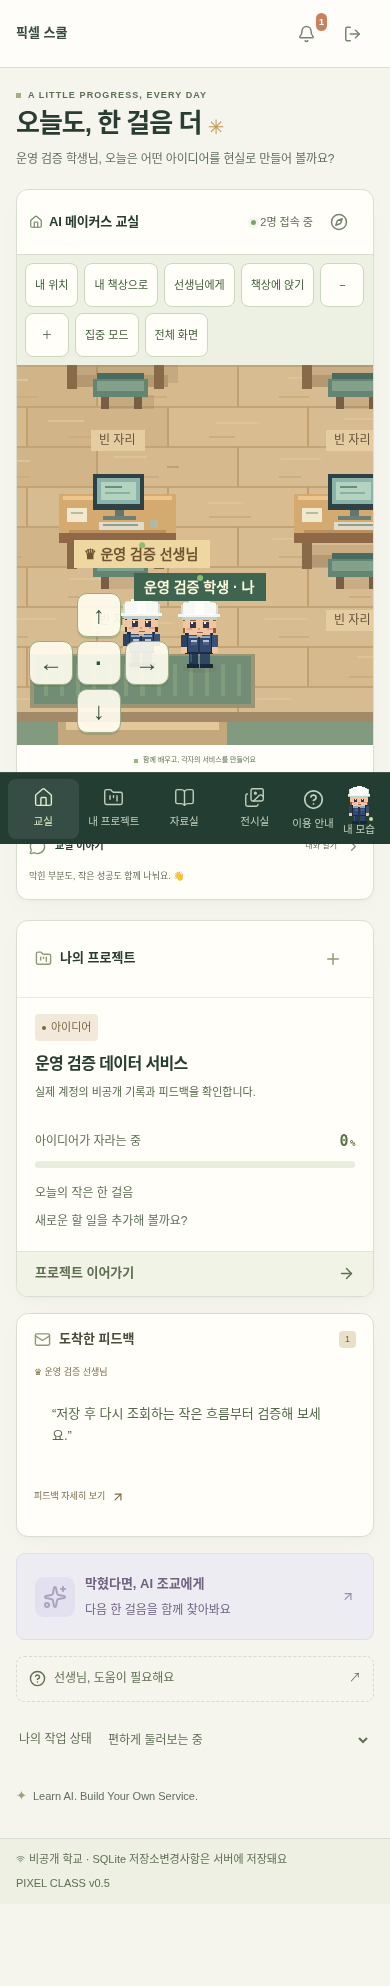
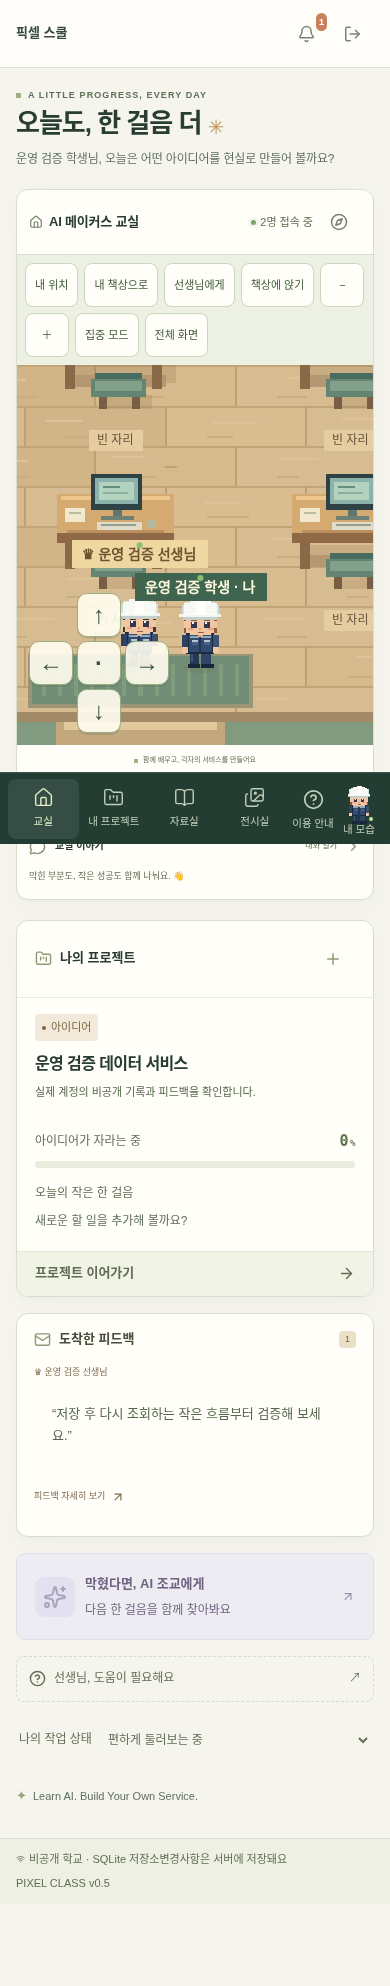
test: verify readable immutable code and document Railway hardening

diff --git a/V05_RAILWAY_REPORT.md b/V05_RAILWAY_REPORT.md
@@ -4,18 +4,18 @@
 
 ## Git·배포 상태
 
-| 항목                    | 확인 결과                                                                                                                                                              |
-| ----------------------- | ---------------------------------------------------------------------------------------------------------------------------------------------------------------------- |
-| 저장소/시작 main        | `dhdh09080/pixel-class`, `42191e83fc3a51073b54d3880468e552b4f0c093`                                                                                                    |
-| 기존 PR/CI              | #1→#2→[v0.4 #3](https://github.com/dhdh09080/pixel-class/pull/3) 병합 완료. main [CI #28](https://github.com/dhdh09080/pixel-class/actions/runs/42490469960) 86개 성공 |
-| 작업 브랜치/구현        | `feature/pixel-class-v05`, `577147f` (`feat: secure Railway runtime and persistent school deployment`). 후속 문서/증거는 브랜치 커밋 목록 참조                         |
-| v0.5 PR/CI              | [PR #4](https://github.com/dhdh09080/pixel-class/pull/4), 최신 head와 CI는 [Checks](https://github.com/dhdh09080/pixel-class/pull/4/checks) 참조                       |
-| Railway 프로젝트/서비스 | **미생성·미조회**. `pixel-class`는 제안 이름이며 실제 자원 이름/ID가 아님                                                                                              |
-| 실제 배포 URL/ID        | **없음 / 없음**                                                                                                                                                        |
-| 실제 Volume             | **미연결**. 제안 1GB `/app/data`, 실제 플랫폼 ID·지역·요금 미확인                                                                                                      |
-| 최초 MASTER             | 로컬 QA 생성/복원/재로그인 통과. **외부 학교 MASTER 미등록**                                                                                                           |
-| 실제 HTTPS/WSS          | Railway 공인 TLS/외부 WSS는 **미검증**. 로컬 CA 검증 HTTPS/WSS는 성공                                                                                                  |
-| DB/AI                   | SQLite WAL 유지, 스키마 변경 없음. Supabase 전환 없음. 실제 OpenAI 키/모델·호출·품질·비용 평가 없음                                                                    |
+| 항목                    | 확인 결과                                                                                                                                                                                                                                                             |
+| ----------------------- | --------------------------------------------------------------------------------------------------------------------------------------------------------------------------------------------------------------------------------------------------------------------- |
+| 저장소/시작 main        | `dhdh09080/pixel-class`, `42191e83fc3a51073b54d3880468e552b4f0c093`                                                                                                                                                                                                   |
+| 기존 PR/CI              | #1→#2→[v0.4 #3](https://github.com/dhdh09080/pixel-class/pull/3) 병합 완료. main [CI #28](https://github.com/dhdh09080/pixel-class/actions/runs/42490469960) 86개 성공                                                                                                |
+| 작업 브랜치/구현        | `feature/pixel-class-v05`, `577147f` (`feat: secure Railway runtime and persistent school deployment`). 후속 문서/증거는 브랜치 커밋 목록 참조                                                                                                                        |
+| v0.5 PR/CI              | [PR #4](https://github.com/dhdh09080/pixel-class/pull/4)는 `0c0c77b`로 main 병합, [CI #30](https://github.com/dhdh09080/pixel-class/actions/runs/42555296733) 92개 성공. 코드 권한 보완은 [PR #5](https://github.com/dhdh09080/pixel-class/pull/5)와 해당 Checks 참조 |
+| Railway 프로젝트/서비스 | **미생성·미조회**. `pixel-class`는 제안 이름이며 실제 자원 이름/ID가 아님                                                                                                                                                                                             |
+| 실제 배포 URL/ID        | **없음 / 없음**                                                                                                                                                                                                                                                       |
+| 실제 Volume             | **미연결**. 제안 1GB `/app/data`, 실제 플랫폼 ID·지역·요금 미확인                                                                                                                                                                                                     |
+| 최초 MASTER             | 로컬 QA 생성/복원/재로그인 통과. **외부 학교 MASTER 미등록**                                                                                                                                                                                                          |
+| 실제 HTTPS/WSS          | Railway 공인 TLS/외부 WSS는 **미검증**. 로컬 CA 검증 HTTPS/WSS는 성공                                                                                                                                                                                                 |
+| DB/AI                   | SQLite WAL 유지, 스키마 변경 없음. Supabase 전환 없음. 실제 OpenAI 키/모델·호출·품질·비용 평가 없음                                                                                                                                                                   |
 
 Railway 플러그인은 설치·활성 상태로 표시되지만 **현재 대화에 호출 가능한 Railway 도구가 없습니다**. 환경에도 Railway 토큰·로그인 설정·연결된 비밀이 없었습니다. 계정/프로젝트 자체가 없다고 판단한 것은 아닙니다. GitHub 읽기·푸시·PR 권한과 최신 main은 확인했습니다.
 
@@ -23,11 +23,11 @@ Railway CLI는 사전 설치되지 않았고, 공식 고정 버전 CLI의 `whoam
 
 ## 구현 결과
 
-- **같은 출처의 단일 서버**: 기존 Dockerfile/Express/React·Phaser/SQLite/WSS·Compose를 유지합니다. PORT/HOST, PORT 기반 Health Check, 최소 공개 probe, ON_FAILURE 재시작, replica1,15초 drain, 중첩 배포0을 설정했습니다. 기존 SIGTERM 소켓 정리를 사용합니다.
+- **같은 출처의 단일 서버**: 기존 Dockerfile/Express/React·Phaser/SQLite/WSS·Compose를 유지합니다. PORT/HOST, PORT 기반 Health Check, 최소 공개 probe, ON_FAILURE 재시작, replica1,15초 drain, 중첩 배포0을 설정했습니다. 기존 SIGTERM 소켓 정리를 사용합니다. 후속 코드 소유권 보완은 `fix/pixel-class-v05-launcher-ownership`의 `dec5330`·`649744e`에서 진행했습니다.
 - **현재 Railway IaC**: `.railway/railway.ts`는 공식 SDK `railway@3.16.0`을 개발 의존성으로만 사용합니다. 이름 있는 partial로 서비스1·볼륨1을 정의하고 sealed 변수 보존·Dockerfile 빌더를 선언합니다. SDK 그래프·타입은 검사했지만 **실제 CLI plan/apply·플랫폼 인수는 미실행**입니다. 새 서비스에서 사용할 수 없는 구형 railway.json/toml은 추가하지 않았습니다.
 - **시작 조건**: production, demo=false, HOST/PORT, 정확한 HTTPS PUBLIC_ORIGIN, Secure 쿠키, 신뢰 프록시1홉을 강제합니다. 원본 앱/DB 포트를 따로 공개하지 않는 구성입니다. 실제 플랫폼 헤더 전달과 TLS는 원격 인수 대상입니다.
 - **지속 데이터 보호**: 실제 Linux mountinfo와 플랫폼 Volume 변수를 함께 검사합니다. Dockerfile의 암묵적 익명 Volume 생성만 제거하고 Compose의 명시적 볼륨을 보존했습니다. 볼륨 없이 임시 DB로 시작하지 않습니다.
-- **비특권 실행**: root launcher는 데이터 디렉터리/선택 DB·WAL·SHM·marker의 권한만 준비하고 UID/GID1000·보조 그룹 없음으로 전환한 뒤 서버를 execve합니다. 디렉터리0700·파일0600·umask077이며 root 앱 실행과 DB/WAL/SHM의 심볼릭/하드 링크를 거부합니다. 재귀 chown·기존 데이터 삭제를 하지 않습니다.
+- **비특권 실행**: root launcher는 데이터 디렉터리/선택 DB·WAL·SHM·marker의 권한만 준비하고 UID/GID1000·보조 그룹 없음으로 전환한 뒤 서버를 execve합니다. 디렉터리0700·파일0600·umask077이며 root 앱 실행과 DB/WAL/SHM의 심볼릭/하드 링크를 거부합니다. 재귀 chown·기존 데이터 삭제를 하지 않습니다. root로 실행할 launcher/import 코드와 package는 root 소유로 고정하고 디렉터리/파일을 앱이 읽을 수 있는 0755/0644 계열로 정규화했습니다. 쓰기 가능한 컨테이너 파일시스템에서도 앱 UID1000은 이 코드나 상위 디렉터리를 수정할 수 없음을 별도 검사합니다.
 - **새 학교와 복원 구분**: 기본 DATABASE_MODE=existing은 DB 누락을 거부합니다. 완전히 빈 새 Volume의 명시적 create+강한 MASTER KEY만 초기화하며 marker가 생긴 뒤에는 DB가 없어져도 재초기화하지 않습니다. 기존 DB의 quick_check·필수 테이블을 읽기 전용으로 확인합니다. 복원은 새 파일명+existing을 사용하고 원본을 덮어쓰지 않습니다.
 - **비공개 HTTP/WSS gate**: 사용자명 pixel·독립 난수 접근 암호를 양쪽에 요구합니다. MASTER 부트스트랩 KEY와 같은 암호는 거부합니다. 본문 파싱 전 차단, private/no-store를 적용하고 기존 초대·계정 세션·학교·역할·학적·소유권 검사를 유지합니다. GET health만 최소 응답으로 공개합니다.
 - **비밀과 오류**: 저장소 밖 0600 비밀 생성 도구와 sealed 변수 보존 선언을 추가했습니다. 기존 파일을 덮어쓰거나 키를 로그에 출력하지 않습니다. AI 전송 제외 목록에 접근 암호를 추가했습니다. 요청/비밀이 섞일 수 있는 예외 메시지를 기록하지 않고 잘못된 JSON400·과대 본문413을 한국어로 안내합니다.
@@ -59,6 +59,7 @@ Railway CLI는 사전 설치되지 않았고, 공식 고정 버전 CLI의 `whoam
 - [Railway 형태 노트북 교실](docs/v05/classroom-1366x768.png), [390px 교실](docs/v05/classroom-390x844.png), [학생 피드백](docs/v05/student-feedback.png).
 - [노트북 감속 측정](docs/v05/device/office-laptop.json), [모바일 감속 측정](docs/v05/device/mobile.json): CPU4배 감속·80ms·1.5/0.75Mbps·캐시 비활성. 준비 표본 약12.4초/11.8초, RAF p95 약16.8ms/16.7ms, JS 오류 없음. 실물 기기·Phaser FPS 인증이나 빠른 초기 로딩으로 해석하지 않습니다. 루프백 HTTP는 Railway HTTPS 압축/네트워크와 다릅니다.
 - [프로세스/저장소 검사](docs/v05/runtime-check.json): UID/GID1000·CapEff0·PORT8080·앱 포트 비게시, DB/WAL0600. RSS는 `/proc/1/status` 단일 표본입니다. 가상화 환경의 Docker aggregate stats는 앱 전용 메모리로 해석할 수 없어 결론에 사용하지 않았습니다. 설정한 1GB 제한의 실제 강제 여부도 이 환경에서 보장하지 않습니다.
+- [코드 소유권 검사](docs/v05/code-permissions.json): 쓰기 가능한 일회용 컨테이너의 UID1000에서 launcher 소유자0·읽기 가능·쓰기 불가를 확인했습니다. 보호 회귀는 상위 디렉터리와 server/shared/dist/package의 읽기/탐색 및 쓰기 금지도 확인합니다.
 - 최종 후보 로컬 이미지 약261MB, 작은 QA DB 약72KiB. 실제 학교 용량이나 Railway 요금 추정은 아닙니다.
 - [독립 클라이언트 결과](docs/v05/network-peers.json)는 externalDeployment:false입니다. 기존 v0.2/v0.3/v0.4 증거를 보존하고 새 표본만 docs/v05에 저장했습니다.
 
@@ -68,6 +69,7 @@ Railway CLI는 사전 설치되지 않았고, 공식 고정 버전 CLI의 `whoam
 2. 로컬 HTTPS가 예상401을 반환하지 않은 시도는 Caddy 프록시 환경의 앱 내부 통신 예외가 빠진 구성이었습니다. 기존 운영과 같은 NO_PROXY를 추가하고 익명401·인증200·전체 흐름을 통과했습니다.
 3. 중간 후보는 작업 환경 ENOSPC로 마지막 독립 컨테이너 생성에 실패했습니다. DB/학교 볼륨을 건드리지 않고 ID로 확인한 이 프로젝트의 미사용 빌드 캐시만 정리해 재검사했습니다. 실패를 성공으로 집계하지 않았습니다.
 4. SDK 원시 그래프의 preserve 표현과 실제 변수 구성을 구분해 sealed+preserveExisting을 검사했습니다. 실제 Railway plan/apply 검증과 구분합니다.
+5. 병합 후 이미지 권한 재점검에서 UID1000이 root launcher 파일을 쓸 수 있음을 access(W_OK)로 재현했습니다. 앱 권한 탈취 후 재시작 시 root 코드 변조로 이어질 경로를 막도록 root 소유권과 앱 쓰기 금지 회귀를 추가했습니다. 첫 소유권 후보는 원본 서버 디렉터리0700 때문에 앱의 코드 읽기를 거부했고, release만 읽기/실행 가능·쓰기 불가로 정규화해 수정했습니다. 데이터 볼륨 권한과 DB는 그대로 보존합니다.
 
 ## 남은 설정·차단 요인
 

diff --git a/STATUS.md b/STATUS.md
@@ -2,23 +2,23 @@
 
 2026-11-09 KST. **Railway 운영 코드는 준비했지만 실제 외부 배포는 미완료이며 URL은 없습니다.** v0.4 기능·디자인·데이터·Compose를 유지합니다.
 
-| 항목                    | 실제 상태                                                                                                                                                                   |
-| ----------------------- | --------------------------------------------------------------------------------------------------------------------------------------------------------------------------- |
-| Git 기준                | v0.4 PR #3은 `42191e8`로 main 병합 완료. #1→#2→#3과 기존 main CI #28 성공 확인                                                                                              |
-| v0.5                    | `feature/pixel-class-v05`, 구현 `577147f`. [PR #4](https://github.com/dhdh09080/pixel-class/pull/4), 최종 CI·main 반영은 PR 병합 기록과 V05 보고서 참조                     |
-| Railway 프로젝트/서비스 | 현재 대화에 호출 가능한 도구·토큰·로그인 없음. 계정/프로젝트 권한 미확인, 원격 자원 미생성                                                                                  |
-| 실제 배포 URL/ID        | **없음 / 없음**                                                                                                                                                             |
-| 배포 구조               | Railway HTTPS edge → Express 정적 React/Phaser·API·WSS 한 서비스 → `/app/data` SQLite WAL. scoped TypeScript IaC, replica1, health/restart/drain                            |
-| 실제 Volume             | Railway **미연결**. 로컬 root-owned Volume→UID1000/CapEff0·DB0600, 볼륨/DB 누락 거부·안전 초기화·새 파일 복원 검증                                                          |
-| DB                      | SQLite 유지, 스키마 변경/기존 데이터 삭제 없음. Supabase Auth/Postgres/Storage/Realtime 실제 전환 없음                                                                      |
-| 인증                    | 비공개 HTTP/WSS 접근 암호 + 기존 초대/세션/학교·역할·학적·프로젝트·파일 권한. 로컬 두 계정 검증, **외부 MASTER 미등록**                                                     |
-| 테스트                  | 기존86 유지 + 신규6 = **92개**(서버56+브라우저34+Compose1+Railway 형태1). 최종 실행·CI 증거는 V05 보고서                                                                    |
-| 실제 사용               | 별도 Chromium 두 세션: MASTER 초대→학생 외모/책상→이동/온라인→프로젝트→교안 업로드/다운로드→피드백/알림→재로그인/재생성/복원. 다른 IP 클라이언트2개의 HTTPS/WSS·채팅도 검사 |
-| 화면/성능               | Railway 형태 1366×768/390×844 화면, 기존5해상도/접근성, CPU4배 감속·80ms·1.5Mbps 노트북/모바일 에뮬레이션. 실물 기기/클라우드 용량 인증 아님                                |
-| HTTPS/WSS               | 로컬 CA 체인/호스트명 검증 성공. 익명/틀린 접근 암호·유효 세션만 있는 WSS 차단. **Railway 공인 URL/외부 WSS 미검증**                                                        |
-| OpenAI                  | Railway 기본 AI_ENABLED=false. 키/모델 형태가 있어도 비활성/503. 활성화 시 학교 UTC 하루3회 이하·동시1개 강제. 실제 키·응답·품질·비용 평가 없음                             |
-| 비용/관측               | 유료 자원 생성/플랜 변경 없음. 실제 요금·Usage 알림·지출 제한·원격 메모리/디스크·외부 백업 미설정                                                                           |
-| 공개 운영               | 이메일 검증/복구/MFA·외부 인수 미완료. 초대된 소규모 비공개 테스트로만 준비, 공개 운영 보류                                                                                 |
+| 항목                    | 실제 상태                                                                                                                                                                                                                                             |
+| ----------------------- | ----------------------------------------------------------------------------------------------------------------------------------------------------------------------------------------------------------------------------------------------------- |
+| Git 기준                | v0.4 PR #3은 `42191e8`로 main 병합 완료. #1→#2→#3과 기존 main CI #28 성공 확인                                                                                                                                                                        |
+| v0.5                    | `feature/pixel-class-v05`, 구현 `577147f`. [PR #4](https://github.com/dhdh09080/pixel-class/pull/4)→main `0c0c77b`, CI #30 성공. root launcher 코드 소유권 추가 보완은 [PR #5](https://github.com/dhdh09080/pixel-class/pull/5)와 최종 병합 기록 참조 |
+| Railway 프로젝트/서비스 | 현재 대화에 호출 가능한 도구·토큰·로그인 없음. 계정/프로젝트 권한 미확인, 원격 자원 미생성                                                                                                                                                            |
+| 실제 배포 URL/ID        | **없음 / 없음**                                                                                                                                                                                                                                       |
+| 배포 구조               | Railway HTTPS edge → Express 정적 React/Phaser·API·WSS 한 서비스 → `/app/data` SQLite WAL. scoped TypeScript IaC, replica1, health/restart/drain                                                                                                      |
+| 실제 Volume             | Railway **미연결**. 로컬 root-owned Volume→UID1000/CapEff0·DB0600, 볼륨/DB 누락 거부·안전 초기화·새 파일 복원 검증                                                                                                                                    |
+| DB                      | SQLite 유지, 스키마 변경/기존 데이터 삭제 없음. Supabase Auth/Postgres/Storage/Realtime 실제 전환 없음                                                                                                                                                |
+| 인증                    | 비공개 HTTP/WSS 접근 암호 + 기존 초대/세션/학교·역할·학적·프로젝트·파일 권한. 로컬 두 계정 검증, **외부 MASTER 미등록**                                                                                                                               |
+| 테스트                  | 기존86 유지 + 신규6 = **92개**(서버56+브라우저34+Compose1+Railway 형태1). 최종 실행·CI 증거는 V05 보고서                                                                                                                                              |
+| 실제 사용               | 별도 Chromium 두 세션: MASTER 초대→학생 외모/책상→이동/온라인→프로젝트→교안 업로드/다운로드→피드백/알림→재로그인/재생성/복원. 다른 IP 클라이언트2개의 HTTPS/WSS·채팅도 검사                                                                           |
+| 화면/성능               | Railway 형태 1366×768/390×844 화면, 기존5해상도/접근성, CPU4배 감속·80ms·1.5Mbps 노트북/모바일 에뮬레이션. 실물 기기/클라우드 용량 인증 아님                                                                                                          |
+| HTTPS/WSS               | 로컬 CA 체인/호스트명 검증 성공. 익명/틀린 접근 암호·유효 세션만 있는 WSS 차단. **Railway 공인 URL/외부 WSS 미검증**                                                                                                                                  |
+| OpenAI                  | Railway 기본 AI_ENABLED=false. 키/모델 형태가 있어도 비활성/503. 활성화 시 학교 UTC 하루3회 이하·동시1개 강제. 실제 키·응답·품질·비용 평가 없음                                                                                                       |
+| 비용/관측               | 유료 자원 생성/플랜 변경 없음. 실제 요금·Usage 알림·지출 제한·원격 메모리/디스크·외부 백업 미설정                                                                                                                                                     |
+| 공개 운영               | 이메일 검증/복구/MFA·외부 인수 미완료. 초대된 소규모 비공개 테스트로만 준비, 공개 운영 보류                                                                                                                                                           |
 
 [v0.5 Railway 보고서](V05_RAILWAY_REPORT.md) · [변수/배포/복원/비용 절차](deploy/railway/README.md) · [런타임 증거](docs/v05/runtime-check.json) · [기존 v0.4 보고서](V04_RELEASE_REPORT.md) · [기존 Compose 운영](deploy/README.md).
 

diff --git a/ARCHITECTURE.md b/ARCHITECTURE.md
@@ -4,7 +4,7 @@
 
 v0.5 Railway 경계는 HTTPS edge → Express 정적 파일/API/인증 WebSocket 한 서비스 → `/app/data` SQLite WAL입니다. 기존 Compose/Caddy 경로는 보존합니다. `.railway/railway.ts`는 SDK 기반 scoped IaC이며 서비스1개·Volume1개·replica1·Health Check·재시작·drain을 선언합니다. **실제 Railway 연결/배포는 아직 미완료**이며 [운영 절차](deploy/railway/README.md)에 필수 변수와 중단 조건을 구분했습니다.
 
-Railway launcher(`scripts/start.mjs`)는 실제 Volume mountinfo를 검사한 뒤 root 소유 디렉터리/선택 DB 파일만 앱 UID1000으로 조정하고, 보조 그룹·root 권한을 버린 뒤 execve로 서버를 실행합니다. `server/runtime.ts`는 DB 모듈이 열리기 전에 다시 비특권 UID·마운트·DB 생성/복원 모드·무결성을 검증합니다. 기본 `existing`은 DB 누락을 거부하며, 새 Volume의 명시적 `create`는 초기화 marker로 반복 초기화를 막습니다. 스키마를 바꾸거나 기존 DB를 삭제하지 않습니다.
+Railway launcher(`scripts/start.mjs`)는 실제 Volume mountinfo를 검사한 뒤 root 소유 디렉터리/선택 DB 파일만 앱 UID1000으로 조정하고, 보조 그룹·root 권한을 버린 뒤 execve로 서버를 실행합니다. `server/runtime.ts`는 DB 모듈이 열리기 전에 다시 비특권 UID·마운트·DB 생성/복원 모드·무결성을 검증합니다. 기본 `existing`은 DB 누락을 거부하며, 새 Volume의 명시적 `create`는 초기화 marker로 반복 초기화를 막습니다. 스키마를 바꾸거나 기존 DB를 삭제하지 않습니다. root launcher가 가져오는 이미지 코드·상위 디렉터리·package는 root 소유이며 UID1000은 읽기/실행만 허용됩니다. 배포 release의 권한을 정규화해 서버 코드 읽기는 가능하고 수정은 불가능하게 합니다.
 
 Railway HTTP/WS 양쪽에서 별도 비공개 Basic 접근 암호를 검사하고 기존 세션·학교·학적·소유권 검사를 유지합니다. JSON 파싱 전에 gate를 적용하며 health GET만 최소 응답으로 허용합니다. 모든 gated 응답은 private/no-store입니다. 플랫폼 TLS 종단·정확한 HTTPS PUBLIC_ORIGIN·Secure cookie·proxy1 hop이 필수이고, AI는 `AI_ENABLED=false` 기본 차단입니다. 이 gate는 이메일 검증·MFA·계정 복구를 대체하지 않습니다.
 
